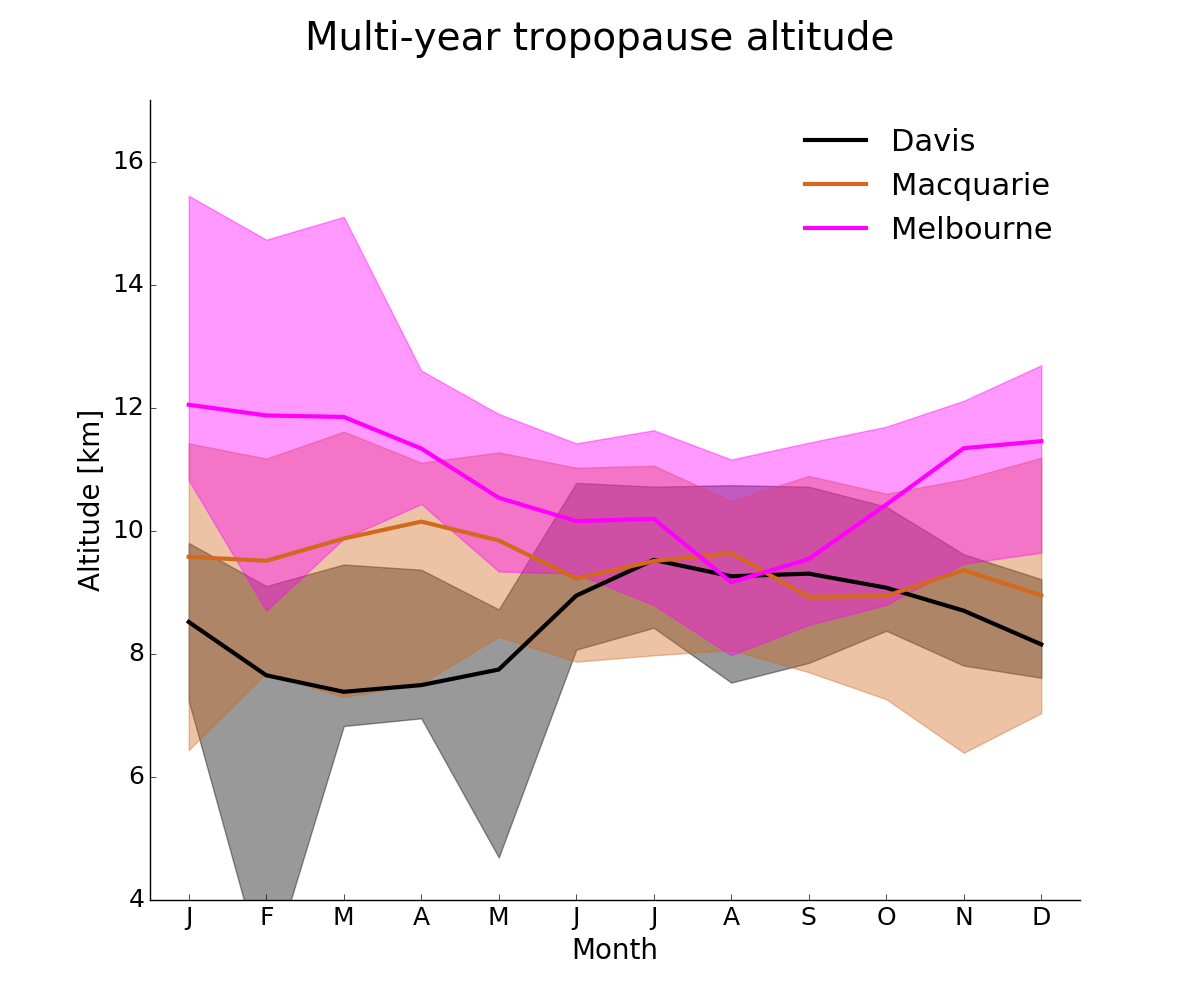
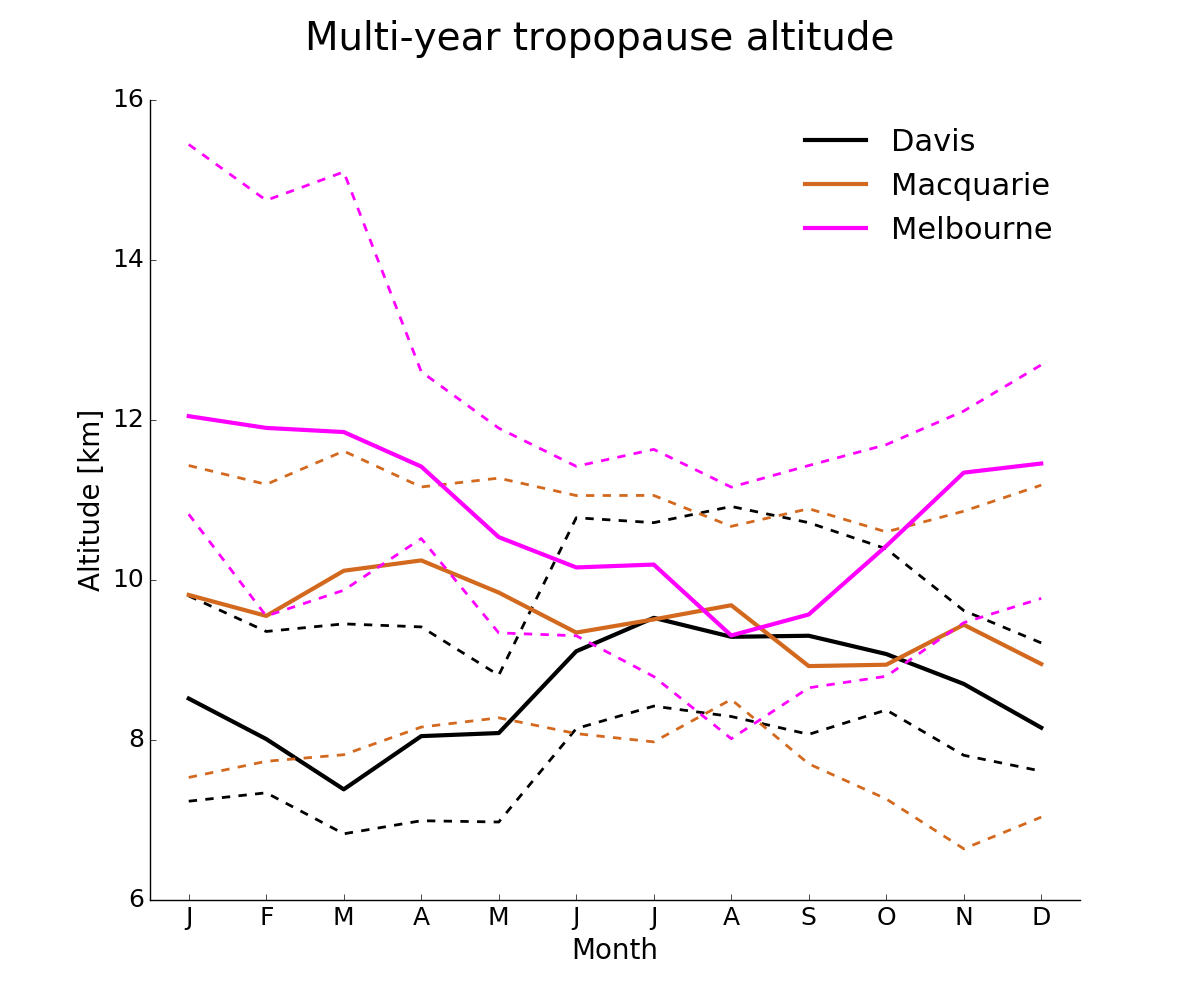
lapse rate tropopause updated and tropopause plots updated

diff --git a/OzonePaper.tex b/OzonePaper.tex
@@ -174,6 +174,7 @@
     \end{enumerate}
     The ozone tropopause can be less robust during stratosphere-troposphere exchange; however, it is more robust than the lapse rate tropopause at polar latitudes in winter and near jet streams in the lower stratosphere due to temperature inversions near the tropopause \citep{Bethan1996, Tomikawa2009, Alexander2013}.
     In this work, the lower of these two tropopause altitudes is used.
+    We slightly alter the lapse rate tropopause definition so as only to detect tropopauses above 4~km altitude, since at all three sites we saw several false positive lapse-rate detections due to temperature inversions near 2~km in altitude.
     This choice avoids occasional unrealistically high tropopause heights due to perturbed ozone or temperature measurements in the ozonesonde data.
     Another commonly used tropopause definition (the dynamical tropopause) is determined from the $\pm 2$ PVU isosurface, which allows a 3D view of folds and other tropopause features in a sufficiently resolved model \citep{Skerlak2014}.
     
@@ -323,10 +324,10 @@
     Here we briefly discuss these quantities and the sensitivity of the method to each.
     Using the algorithm discussed in Sect. \ref{Section:CharacterisationOfSTTs}, we detect 45 events at Davis, 47 (+8 fire influenced) events at Macquarie Island, and 72 (+14 fire influenced) events at Melbourne.
     
-    The cut-off threshold (defined separately for each site) is determined from the 99th percentile of the ozone perturbation profiles between 2~km and 1~km below the tropopause.
+    The cut-off threshold (defined separately for each site) is determined from the 99th percentile of the ozone perturbation profiles between 2~km above the earth's surface and 1~km below the tropopause.
     We use the 99th percentile because at this point the filter locates clear events with no obvious false positives.
     Event detection is highly sensitive to this choice; for example, using the 98.5th percentile instead increased detected events by 10 (22\%) at Davis, 19 (40\%) at Macquarie Island, and 24 (33\%) at Melbourne.
-    Event detection is therefore also sensitive to the range over which the percentile is calculated (2~km to 1~km below the tropopause).
+    Event detection is therefore also sensitive to the range over which the percentile is calculated (2~km above the earth's surface to 1~km below the tropopause).
     This range was chosen to remove anomalous edge effects of the Fourier bandpass filter and to discount the highly variable ozone concentration which occurs near the tropopause.
     
     Ozone enhancements are only considered STT events if they occur above 4~km and below 500~m below the tropopause.
@@ -399,9 +400,9 @@
       \hline
       Site & Events & Cut-offs & Frontals & Misc & Fire \\
       \hline
-      Davis     & 45 & 7  & 20 & 18 & 0 \\ 
+      Davis     & 46 & 7  & 20 & 19 & 0 \\ 
       Macquarie & 47 & 10 & 20 & 9  & 8 \\
-      Melbourne & 72 & 12 & 34 & 12 & 14 \\
+      Melbourne & 73 & 12 & 34 & 13 & 14 \\
       \hline
     \end{tabular}
     \label{table:EventCounts}
